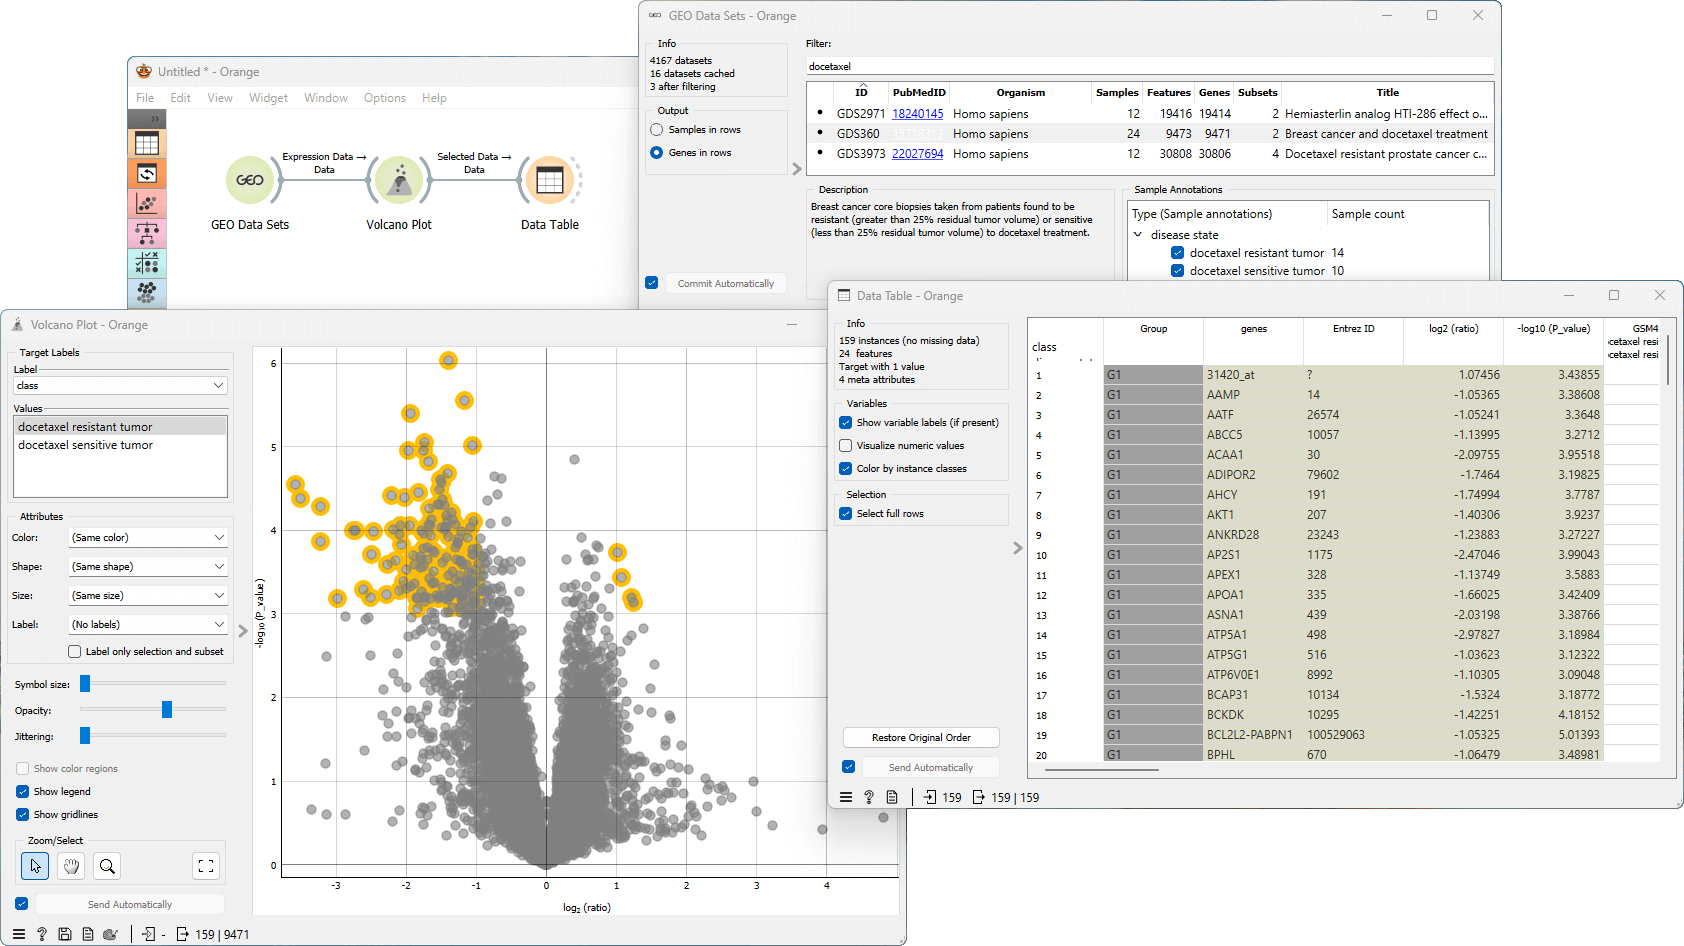
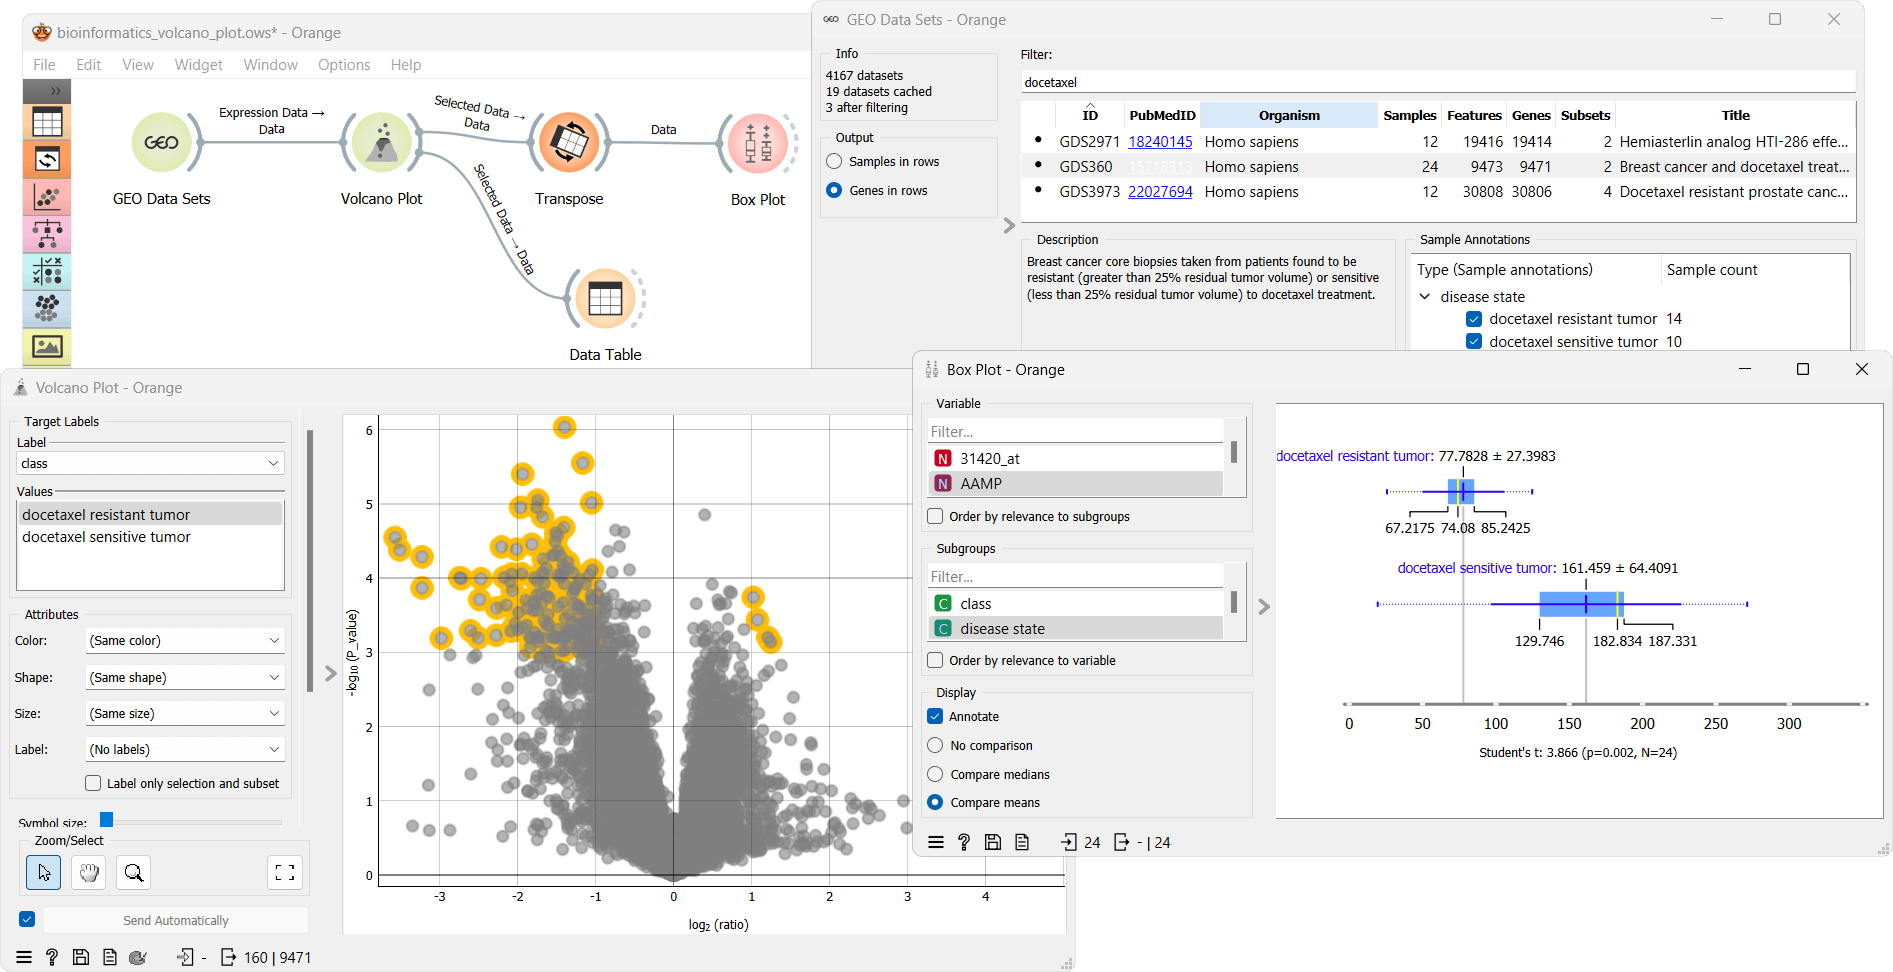
Added workflows to documentation

Changed region(s): [[0.0, 0.0, 1.0, 1.0], [0.3705, 0.2759, 0.4632, 0.3372]]

diff --git a/doc/widgets/gene_sets.md b/doc/widgets/gene_sets.md
@@ -27,10 +27,12 @@ Data is preprocessed in Orange readable format and it is hosted [here.](http://d
 Example
 -------
 
-To create a custom gene set, we start by importing an Excel table that includes 284 human homologs of DNA "damage-up" proteins (DDPs) identified in *E.coli*. These DDPs are categorized into three gene sets: All DDPs, DDPs with known cancer drivers excluded, and validated DDPs recognized as genuine DNA damage instigators in human cells [(Xia et al.)](https://www.ncbi.nlm.nih.gov/pmc/articles/PMC6344048/). We accomplish this by utilizing the **File** widget. Next, we pass this data to the **Genes** widget for gene annotation, and then to the **Gene Sets** widget for custom gene set creation. Within the **Gene Sets** widget, we can select our file from the drop-down menu in the *Custom Gene Sets* section to generate the desired gene set.
+To create a custom gene set, we start by importing an Excel table that includes 284 human homologs of DNA "damage-up" proteins (DDPs) identified in *E.coli*. These DDPs are categorized into three gene sets: All DDPs, DDPs with known cancer drivers excluded, and validated DDPs recognized as genuine DNA damage instigators in human cells [(Xia et al.)](https://www.ncbi.nlm.nih.gov/pmc/articles/PMC6344048/). We accomplish this by utilizing the **File** widget. Next, we pass this data to the **Genes** widget for gene annotation, and then to the **Gene Sets** widget for custom gene set creation. Within the **Gene Sets** widget, we can select our file from the drop-down menu in the *Custom Gene Sets* section to generate the desired gene set. This workflow can be accessed [here](https://download.biolab.si/download/files/workflows/orange/bioinformatics_gene_sets.ows).
 
 ![](images/gene-sets/Gene-Sets-example.png)
 
 Next, we load the [*GDS3592*](https://pubmed.ncbi.nlm.nih.gov/20040092/) data set from the **GEO Data Sets** widget. This is a comparison of gene expressions in 12 normal ovarian surface epithelia and 12 ovarian cancer epithelial cells. To annotate the genes, we utilize the **Genes** widget. Once the genes are annotated, we connect both the **Genes** and **Gene Sets** (with our custom gene set selected) widgets to the **Single Sample Scoring** widget. Finally, we use **Data Table** widget to observe the enrichment scores associated with the selected gene sets.
 
 ![](images/gene-sets/Gene-Sets-example2.png)
+
+

diff --git a/doc/widgets/homologs.md b/doc/widgets/homologs.md
@@ -22,7 +22,7 @@ The **Homologs** widget finds homologs to genes in the input data set for the se
 Example
 -------
 
-From the **GEO Data Sets** widget we select the [GDS3132](https://pubmed.ncbi.nlm.nih.gov/17975176/) data set for neonatal lung response to cigarette smoke expression profiling in mice (*Mus musculus*). Next, we annotate the genes using the **Genes** widget. We then connect the **Genes** and **Differential Expression** widgets to inspect the differentially expressed genes. We select the top 100 genes and feed the data to **Homologs** widget and select the organism of interest, in our case *Homo Sapiens*. The output is a list of homologs to the genes in the input data set. Next, we connect the **Homologs** widget to the **Data Table** widget. This allows us to efficiently inspect and work with information specifically related to homologous genes.
+From the **GEO Data Sets** widget we select the [GDS3132](https://pubmed.ncbi.nlm.nih.gov/17975176/) gene expression data set for neonatal lung response to cigarette smoke profiling in mice (*Mus musculus*). Next, we annotate the genes using the **Genes** widget. We then connect the **Genes** and **Differential Expression** widgets to inspect the differentially expressed genes. We select the top 100 genes and feed the data to **Homologs** widget and select the organism of interest, in our case *Homo Sapiens*. The output is a list of homologs to the genes in the input data set. Next, we connect the **Homologs** widget to the **Data Table** widget. This allows us to efficiently inspect and work with information specifically related to homologous genes. This workflow can be accessed [here](https://download.biolab.si/download/files/workflows/orange/bioinformatics_homologs.ows).
 
 
 ![](images/homologs/Homologs-Example.png)

diff --git a/doc/widgets/gene_set_enrichment.md b/doc/widgets/gene_set_enrichment.md
@@ -26,8 +26,10 @@ Enrich gene sets.
 Example
 -------
 
-From **GEO Data Sets** widget we select the [GDS3900](https://pubmed.ncbi.nlm.nih.gov/21410935/) data set *Fear conditioning effect on hybrid mouse diversity panel*. The analysis focuses on the whole hippocampus and striatum from Hybrid Mouse Diversity Panel (HMDP) males exposed to a fear conditioning procedure. Next, we feed this data into the **Gene Set Enrichment** widget, where we specify *Mus musculus* as the *Organism* and select the Gene Ontology gene sets. After filtering the results, we proceed to connect the widget to the **Data Table** to inspect the *Enrichment report*.
+From **GEO Data Sets** widget we select the [GDS3900](https://pubmed.ncbi.nlm.nih.gov/21410935/) data set *Fear conditioning effect on hybrid mouse diversity panel*. The analysis focuses on the whole hippocampus and striatum from Hybrid Mouse Diversity Panel (HMDP) males exposed to a fear conditioning procedure. Next, we feed this data into the **Gene Set Enrichment** widget, where we specify *Mus musculus* as the *Organism* and select the Gene Ontology gene sets. After filtering the results, we proceed to connect the widget to the **Data Table** to inspect the *Enrichment report*. This workflow can be accessed [here](https://download.biolab.si/download/files/workflows/orange/bioinformatics_gsea.ows).
 
 
 
 ![](images/gene_set_enrichment/Gene-Set-Enrichment-Example.png)
+
+

diff --git a/doc/widgets/volcano_plot.md b/doc/widgets/volcano_plot.md
@@ -35,6 +35,6 @@ A combination of the two are those genes that are statistically significant.
 
 Example
 -------
-From the GEO Data Sets widget, we select *Breast cancer and docetaxel treatment* (GDS360) with 14 treatment resistant and 10 treatment sensitive tumors. We select *Genes in rows* as output. Then we use the **Volcano plot** widget to select the most interesting genes. We observe the selected data subset in a **Data Table**. The table shows selected genes with the additional log2 (ratio) and -log10 (P_value) labels.
+From the GEO Data Sets widget, we select *Breast cancer and docetaxel treatment* (GDS360) with 14 treatment resistant and 10 treatment sensitive tumors. We select *Genes in rows* as output. Then we use the **Volcano plot** widget to select the most interesting genes. We observe the selected data subset in a **Data Table**. The table shows selected genes with the additional log2 (ratio) and -log10 (P_value) columns. To visualize the difference in expression of each selected gene, we first transpose the data using **Transpose** widget and then use the **Box Plot** widget. This workflow can be accessed [here](https://download.biolab.si/download/files/workflows/orange/bioinformatics_volcano_plot.ows).
 
 ![](images/volcano_plot/Volcano-Plot-Example.png)

diff --git a/doc/widgets/genes.md b/doc/widgets/genes.md
@@ -33,3 +33,5 @@ Example
 First we load *brown-selected.tab* (from *Browse documentation data sets*) with the **File** widget and feed our data to the Genes widget. Orange recognized the organism correctly, but we have to tell it where our gene labels are. To do this, we tick off *Stored as feature (column) name* and select *gene* attribute from the list. Then we can observe gene info provided from the NCBI Gene database. In the **Data Table** we can see the Entrez ID column included as a meta attribute. The data is also properly annotated (see *Data Attributes* section in **Data Info** widget).
 
 ![](images/genes/genes-Example.png)
+
+A workflow that implements this widget can be accessed [here](https://download.biolab.si/download/files/workflows/orange/bioinformatics_gene_sets.ows).

diff --git a/doc/widgets/cluster_analysis.md b/doc/widgets/cluster_analysis.md
@@ -33,3 +33,5 @@ Example
 From the **GEO Data Sets** widget we select the [GDS360](https://pubmed.ncbi.nlm.nih.gov/15718313/) data set for gene expression in breast cancer core biopsies taken from patients found to be resistant (14 samples) or sensitive (10 samples) to docetaxel treatment. Next we feed the data to the **Cluster Analysis** widget and set our parameters and gene sets to compare. We set the thresholds to filter the results and connect the widget to the **t-SNE** widget to visualize the results and to the **Data Table** widget to inspect the results.
 
 ![](images/cluster_analysis/Cluster-Analysis-Example.png)
+
+This workflow can be accessed [here](https://download.biolab.si/download/files/workflows/orange/bioinformatics_cluster_analysis.ows).

diff --git a/doc/widgets/single_sample_scoring.md b/doc/widgets/single_sample_scoring.md
@@ -24,3 +24,5 @@ Example
 From the GEO Data Sets widget, we selected *Breast cancer and docetaxel treatment* ([GDS360](https://pubmed.ncbi.nlm.nih.gov/15718313/)) data set with 14 treatment resistant and 10 treatment sensitive tumors. We annotated the genes using the **Genes** widget and selected the relevant gene sets using the **Gene Sets** widget. Finally, we used the **Single Sample Scoring** widget and the **Data Table** widget to observe the enrichment scores associated with the selected gene sets.
 
 ![](images/single_sample_scoring/Single-Sample-Scoring-Example.png)
+
+A workflow that implements this widget can be accessed [here](https://download.biolab.si/download/files/workflows/orange/bioinformatics_gene_sets.ows).

diff --git a/doc/widgets/differential_expression.md b/doc/widgets/differential_expression.md
@@ -55,3 +55,5 @@ Example
 From the GEO Data Sets widget, we selected *Breast cancer and docetaxel treatment* (GDS360) with 14 treatment resistant and 10 treatment sensitive tumors. Then we used the **Differential Expression** widget to select the most interesting genes. We left the upper and lower threshold at default (1 and -1) and output the data. Then we observed the selected data subset in a **Data Table**. The table shows selected genes with an additional gene score label.
 
 ![](images/differential_expression/Differential-Expression-Example.png)
+
+A workflow that implements this widget can be accessed [here](https://download.biolab.si/download/files/workflows/orange/bioinformatics_homologs.ows).

diff --git a/doc/widgets/annotate_projection.md b/doc/widgets/annotate_projection.md
@@ -79,7 +79,7 @@ genes with cell types to the *Annotator* widget. The data table receives
 the output of the Annotator widget and shows items selected in the plot.
 The widget shows clustered cells projected to the two-dimensional plane.
 Clusters labels show annotation with the most common label in the
-cluster.
+cluster. This workflow can be accessed [here](https://download.biolab.si/download/files/workflows/orange/bioinformatics_annotator.ows).
 
 ![](images/annotate_projection/annotator-example.png)
 

diff --git a/doc/widgets/marker_genes.md b/doc/widgets/marker_genes.md
@@ -40,6 +40,8 @@ We can use the **Marker Genes** in a combination with many other widgets. For ex
 
 ![](images/marker_genes/Marker-Genes-example.png)
 
+A workflow that implements this widget can be accessed [here](https://download.biolab.si/download/files/workflows/orange/bioinformatics_annotator.ows).
+
 [1]:https://academic.oup.com/nar/article/47/D1/D721/5115823
 [2]:http://download.biolab.si/datasets/bioinformatics/marker_genes/
 [3]:https://pubmed.ncbi.nlm.nih.gov/21410935/
